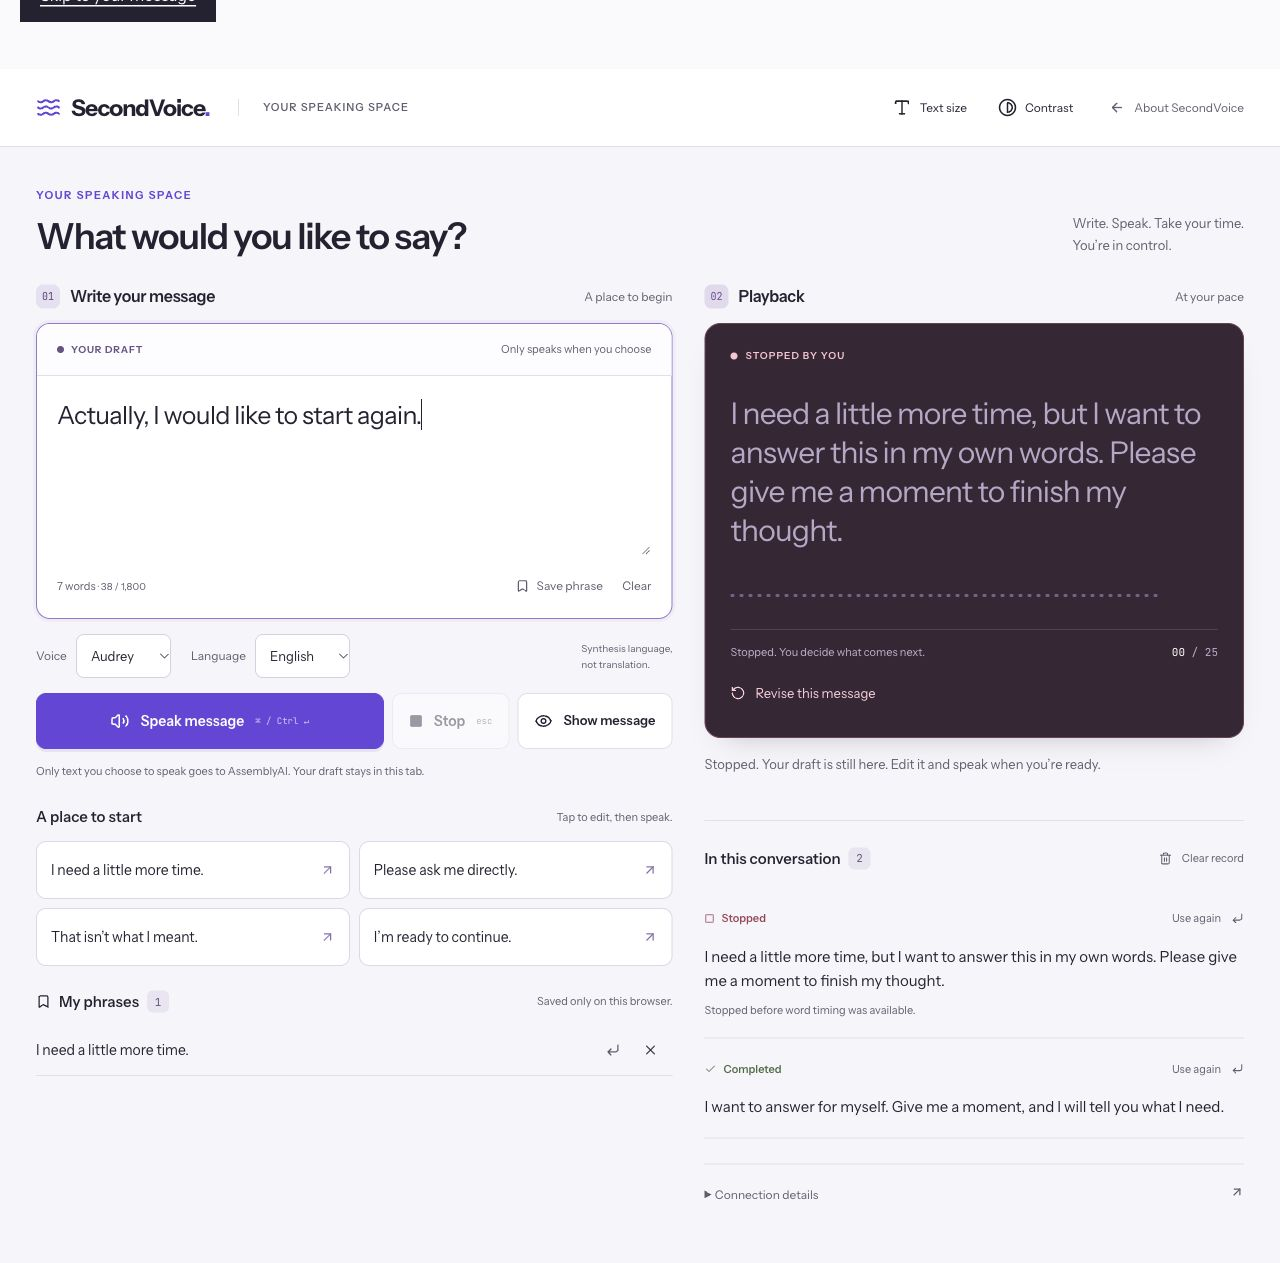
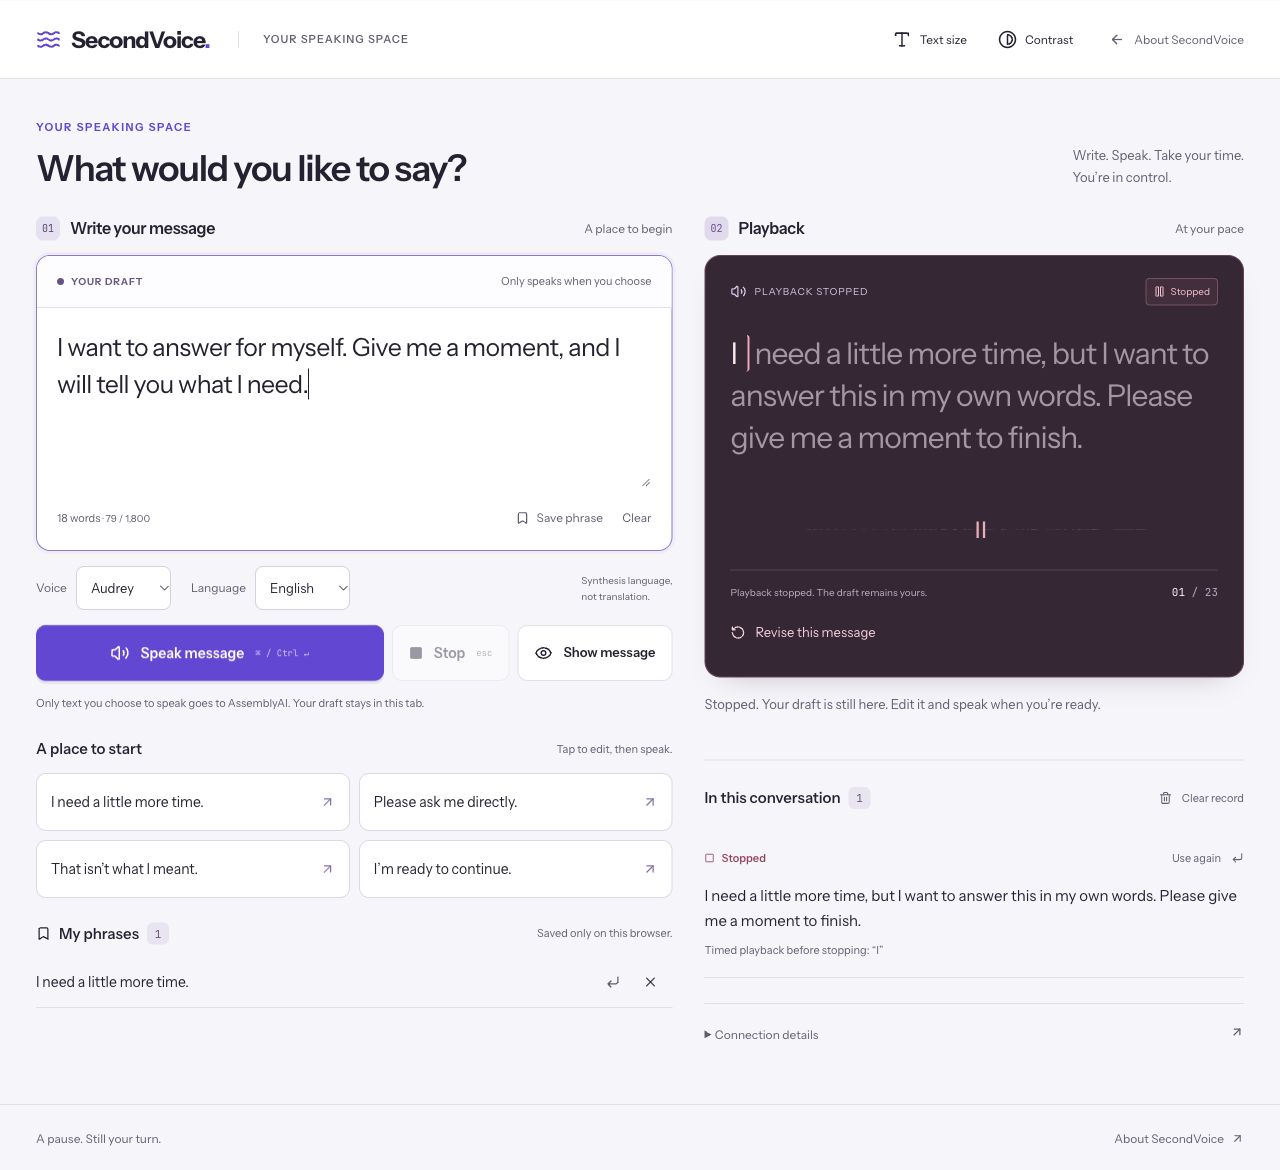
docs: captured speech choreography and live revision walkthrough

diff --git a/docs/product-verification.md b/docs/product-verification.md
@@ -47,3 +47,11 @@ The product presentation now uses a bright violet-and-ink identity, a full-width
 Browser checks covered desktop, measured 390px and 320px CSS widths, larger text, high contrast, modal listener presentation, real synthesis completion, and Escape cancellation while preserving a separate next draft. The narrow navigation button was adjusted after inspection. Neither tested width had horizontal document overflow; overflowing waveform bars are clipped within their own visual container. The browser error/warning log was empty.
 
 The README screenshots and silent stop/revise GIF were recaptured from the final production build. The social image kit was refreshed to match. Existing playback, phrase, and origin tests still pass (10), along with lint and the production build. Reduced-motion behavior remains source-reviewed rather than OS-emulated.
+
+## Words-to-speech choreography — November 10, 2026
+
+The recorded example now keeps a source document visible alongside its spoken rendering. DOM-measured word chips travel between the same tokens as playback timing arrives. Stop cancels every in-flight animation, collapses the ribbon, and marks the last timed word. Revision uses an exact-token longest-common-subsequence diff to highlight changed words while retaining the previous example text. The live workspace shares this renderer; if the next draft differs from the playing utterance, decorative words originate locally in the playback panel instead of incorrectly leaving the new draft.
+
+A revision base is carried only from an interrupted or explicitly revised message. A normal new turn after completed speech has no revision badge. Browser checks confirmed actual provider playback, stopping after the first timed word, preserving a different next draft, and a subsequent revised message. The landing sequence survived rapid Speak → Revise → Interrupt changes and ended on the correct original phrase with zero remaining word-flight elements. Escape during an in-flight word also left zero elements. The stacked example was checked at a measured 390px width without horizontal overflow. The earlier viewport attempt affected the selected browser tab rather than the hidden test tab; it was reset, and the measured check was repeated on the selected preview.
+
+Twelve automated tests pass, including new cases for word-diff preservation, repeated words, insertion, clamped timing bursts and backwards timing. Lint and the production build pass. The motion is decorative and does not delay or manufacture audio. The ribbon is a playback-state illustration, not a measured spectrum. Reduced motion is implemented in CSS and the animation guard; OS preference behavior is source-reviewed, not hardware-tested.

diff --git a/README.md b/README.md
@@ -42,6 +42,10 @@ The landing page lets you hear three moments: **Speak → Interrupt → Revise**
 
 <sub>Actual browser capture of the labeled recorded example. The GIF is silent; open the example to hear the real AssemblyAI audio. The example uses saved recordings and makes no live synthesis requests.</sub>
 
+The written draft stays visible while individual words travel to the voice panel as timing arrives. Stop cancels those in-flight words, cuts the speech ribbon, and leaves the timed boundary visible. Revise preserves the previous thought and highlights the words that changed. The same renderer handles the live workspace; a new completed conversational turn is not automatically treated as a revision.
+
+Motion respects reduced-motion settings. Resizing, stopping, hiding the page, and starting a new run clear decorative particles. The ribbon illustrates playback state; it is not an audio spectrum.
+
 In the speaking workspace, **Stop is a real cancellation**. It sends the provider’s cancel frame, stops queued Web Audio buffers, closes the session, and invalidates late callbacks. It does not simply change a label or mute a looping demo.
 
 <details>
@@ -136,7 +140,7 @@ npm test
 npm run build
 ```
 
-**10 automated checks** cover cancellation during token creation, late frames after closure, suspended playback clocks, cancelling queued audio, approved-message submission, phrase validation and limits, and production/development origin rules.
+**12 automated checks** cover cancellation during token creation, late frames after closure, suspended playback clocks, cancelling queued audio, approved-message submission, phrase validation and limits, production/development origin rules, exact-token revision matching, and bounded word-flight bursts.
 
 Browser verification for this version covered:
 
@@ -164,11 +168,13 @@ app/
 components/
   second-voice-studio.tsx      Draft, playback, listener view and phrase library
   recorded-demo.tsx           User-controlled recorded speech chapters
+  speech-scene.tsx            Word transfer, stop boundary and revision highlights
   brand.tsx                   Shared SecondVoice identity
 lib/
   assemblyai/tts-session.ts    Streaming audio, word timing and cancellation
   phrases.ts                  Bounded browser-local phrase storage
   request-origin.ts           Same-origin validation
+  speech-motion.ts            Word diffs and bounded timing bursts
 public/demo/                  Original AssemblyAI recordings and timing files
 assets/readme/                Real product screenshots and browser capture
 tests/                       Playback, lifecycle, phrases and origin checks
